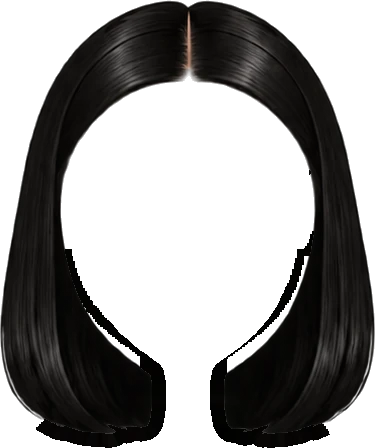
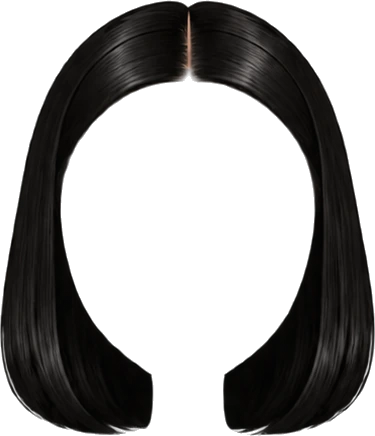
cabelos iguais ao GPT

diff --git a/config/bonequinha-posicoes.ts b/config/bonequinha-posicoes.ts
@@ -4,22 +4,22 @@
 export type Pos = [number, number, number, number, number?];
 export const POSICOES: Record<string, Pos> = {
   // cabelos
-  h1_0: [56.9, 43.2, 233.7, 535.7],
-  h1_1: [-1.4, 41.4, 350.8, 548.8],
-  h1_2: [62.2, 17.1, 227.1, 337.4],
-  h1_3: [62.2, 45.6, 223.0, 266.4],
-  h2_0: [46.8, 39.0, 249.7, 585.1],
-  h2_1: [4.5, 26.5, 338.9, 587.5],
-  h2_2: [57.5, 5.1, 233.7, 610.7],
-  h2_3: [30.1, 20.0, 284.2, 614.8],
-  h3_0: [52.1, 3.4, 245.0, 613.6],
+  h1_0: [64.6, 43.2, 218.2, 529.8],
+  h1_1: [-1.4, 41.4, 350.8, 542.9],
+  h1_2: [62.2, 17.1, 227.1, 334.4],
+  h1_3: [62.2, 45.6, 223.0, 259.2],
+  h2_0: [54.5, 39.0, 234.9, 577.4],
+  h2_1: [4.5, 26.5, 338.9, 580.9],
+  h2_2: [63.4, 5.1, 221.2, 605.3],
+  h2_3: [33.1, 20.0, 281.2, 608.9],
+  h3_0: [58.6, 3.4, 230.7, 608.3],
   h3_1: [17.6, 11.1, 311.6, 343.1],
-  h3_2: [58.6, 46.2, 232.5, 550.6],
-  h3_3: [27.1, 43.2, 293.1, 556.5],
-  h4_0: [39.6, 37.2, 266.4, 277.1],
-  h4_1: [74.1, 40.8, 211.1, 177.2],
-  h4_2: [81.2, 41.4, 185.5, 278.3],
-  h4_3: [27.7, 26.5, 294.9, 261.0],
+  h3_2: [66.4, 46.2, 217.0, 550.0],
+  h3_3: [27.1, 43.2, 293.1, 552.4],
+  h4_0: [39.6, 37.2, 266.4, 269.9],
+  h4_1: [74.1, 40.8, 211.1, 175.4],
+  h4_2: [81.2, 41.4, 185.5, 270.5],
+  h4_3: [27.7, 26.5, 294.9, 254.5],
   c01: [112.0, 300.5, 118.2, 135.7],
   c02: [112.0, 344.4, 118.2, 117.8],
   c03: [112.0, 342.1, 118.2, 115.1],
